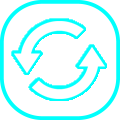
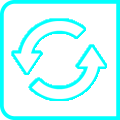
reload button and display positions

diff --git a/index.html b/index.html
@@ -266,7 +266,7 @@ position: fixed;
          style="position: fixed; width: 60px;height: 60px;right: 0px; top:62px;  -webkit-transform-style: preserve-3d; visibility: visible;">
     </div>
     <div class='Interfaces' id="reloadButtonDiv"
-         style="position: fixed; width: 60px;height: 60px;right: 0px; bottom: 36px;  -webkit-transform-style: preserve-3d; visibility: visible;">
+         style="position: fixed; width: 60px;height: 60px;right: 0px; top: 260px;  -webkit-transform-style: preserve-3d; visibility: visible;">
         <img class='Interfaces' id="reloadButton" src="png/reload.png" width="60" height="60" alt=""/></div>
 
    <div id="logButtonDiv" style="position: fixed; width: 60px;height: 60px;right: 0px; bottom: 176px;  -webkit-transform-style: preserve-3d; display:none; visibility: hidden;">

diff --git a/js/onload.js b/js/onload.js
@@ -76,8 +76,8 @@ window.onload = function () {
 
     if (globalStates.platform === 'iPhone') {
         document.getElementById("logButtonDiv").style.visibility = "hidden";
-        document.getElementById("reloadButtonDiv").style.visibility = "hidden";
-        document.getElementById("preferencesButtonDiv").style.bottom = "36px";
+       // document.getElementById("reloadButtonDiv").style.visibility = "hidden";
+     //   document.getElementById("preferencesButtonDiv").style.bottom = "36px";
 
         var editingInterface = document.getElementById("content2title");
         editingInterface.style.fontSize = "12px";
